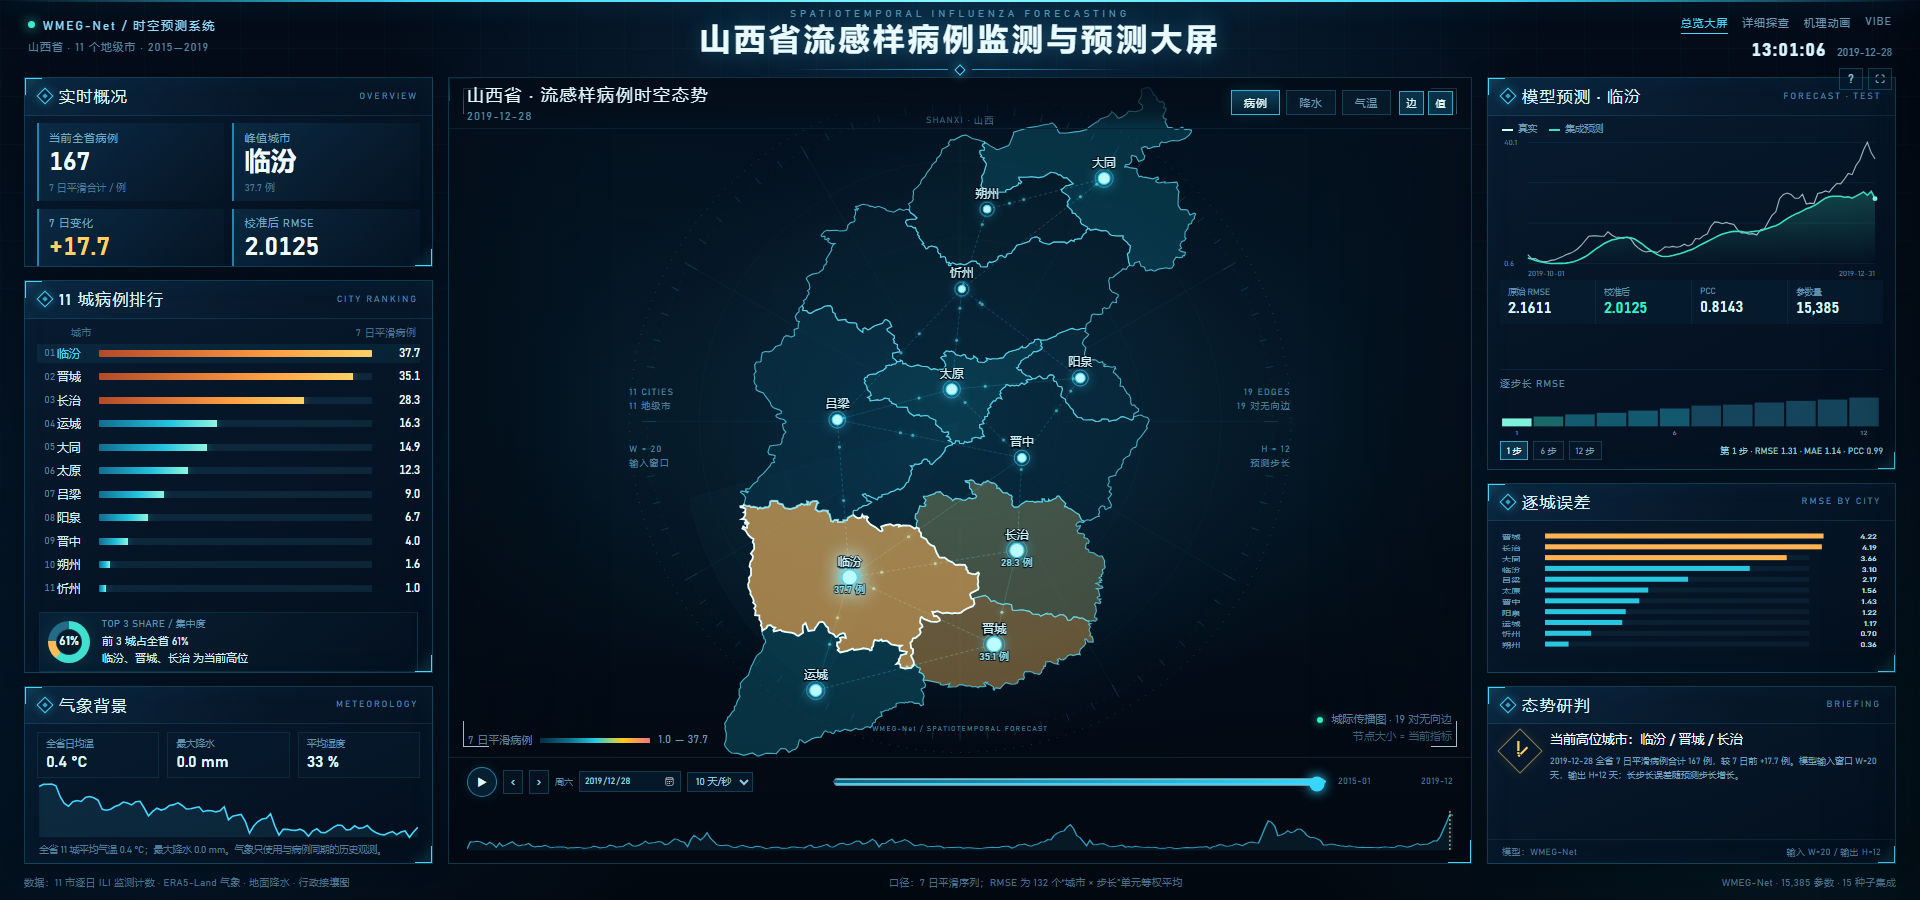
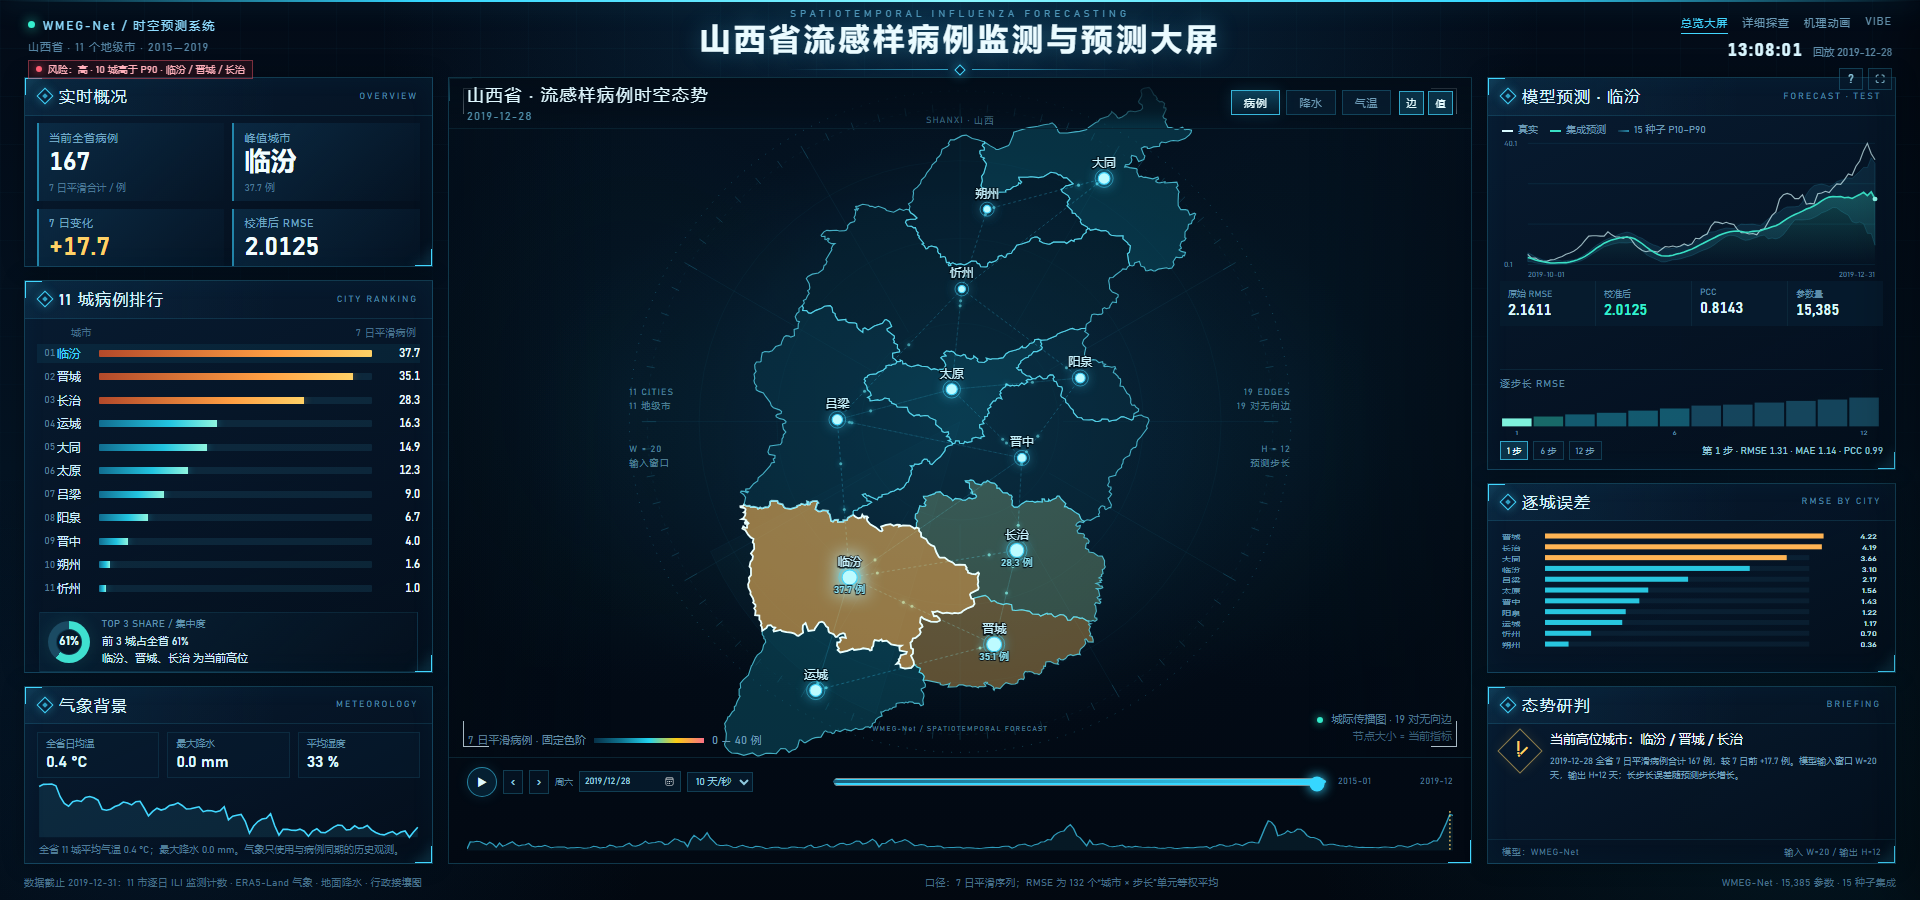
feat: fixed color scale, ensemble interval, risk alert and time semantics

diff --git a/assets/screen.js b/assets/screen.js
@@ -1,6 +1,6 @@
 'use strict';
 /* CENI-style big screen · data-driven */
-var DATA=null, GEO=null, FIT=null;
+var DATA=null, GEO=null, FIT=null, MECH=null, CITY_Q90={};
 var CITY={}, SERIES={}, PROV={};
 var state={idx:0,mode:'cases',city:null,playing:false,speed:10,timer:null,horizon:1,edges:true,labels:true};
 var MAP=null;
@@ -19,6 +19,15 @@ function colorScale(v,min,max){
   var p=t*(stops.length-1),i=Math.min(stops.length-2,Math.floor(p)),u=p-i;
   var a=stops[i],b=stops[i+1];
   return 'rgb('+Math.round(a[0]+(b[0]-a[0])*u)+','+Math.round(a[1]+(b[1]-a[1])*u)+','+Math.round(a[2]+(b[2]-a[2])*u)+')';
+}
+function colorDomain(){
+  if(state.mode==='cases')return [0,40];
+  if(state.mode==='precip')return [0,20];
+  return [-10,30];
+}
+function quantile(arr,q){
+  var a=arr.filter(function(v){return v!==null&&v!==undefined&&!isNaN(v)}).slice().sort(function(x,y){return x-y});
+  if(!a.length)return 0;var pos=(a.length-1)*q,lo=Math.floor(pos),hi=Math.ceil(pos);return a[lo]+(a[hi]-a[lo])*(pos-lo);
 }
 function cityValue(name,i){
   if(state.mode==='precip') return SERIES[name].precip[i];
@@ -170,7 +179,7 @@ function selectCity(name,open){
 function updateMap(){
   var i=state.idx;
   var vals=DATA.meta.cities.map(function(c){return cityValue(c.name,i)});
-  var min=Math.min.apply(null,vals),max=Math.max.apply(null,vals);
+  var dom=colorDomain();var min=dom[0],max=dom[1];
   var topNames=DATA.meta.cities.map(function(c){return {name:c.name,v:cityValue(c.name,i)}}).sort(function(a,b){return b.v-a.v}).slice(0,3).map(function(d){return d.name});
   $$('#map .city-zone').forEach(function(p){
     var name=p.getAttribute('data-name');var v=cityValue(name,i);
@@ -190,7 +199,8 @@ function updateMap(){
   });
   $('#map-date').textContent=DATA.meta.dates[i];
   var lg=$('#map-legend');
-  lg.innerHTML='<span>'+modeName()+'</span><i class="bar"></i><span>'+fmt(min,1)+' — '+fmt(max,1)+'</span>';
+  var unit=state.mode==='cases'?' 例':(state.mode==='precip'?' mm':' °C');
+  lg.innerHTML='<span>'+modeName()+' · 固定色阶</span><i class="bar"></i><span>'+fmt(min,0)+' — '+fmt(max,0)+unit+'</span>';
 }
 function drawRanking(){
   var i=state.idx;
@@ -207,8 +217,18 @@ function drawRanking(){
   var total=arr.reduce(function(s,d){return s+d.v},0)||1;
   var top3=arr.slice(0,3).reduce(function(s,d){return s+d.v},0);
   var pct=Math.round(top3/total*100);
-  $('#rank-summary').innerHTML='<div class="rank-donut" style="background:conic-gradient(#3fe0d0 0 '+pct+'%,#ffbd5a '+pct+'% '+(pct+15)+'%,#256b88 '+(pct+15)+'% 100%)"><b>'+pct+'%</b></div>'+
+  $('#rank-summary').innerHTML='<div class="rank-donut" style="background:conic-gradient(#3fe0d0 0 '+pct+'%,#1b4b63 '+pct+'% 100%)"><b>'+pct+'%</b></div>'+
     '<div class="rank-sum-txt"><span>TOP 3 SHARE / 集中度</span><b>前 3 城占全省 '+pct+'%<br>'+arr[0].short+'、'+arr[1].short+'、'+arr[2].short+' 为当前高位</b></div>';
+}
+function updateAlert(){
+  if(!DATA)return;
+  var i=state.idx;
+  var risks=DATA.meta.cities.filter(function(c){var v=SERIES[c.name].casesSmooth[i]||0;return v>=CITY_Q90[c.name]}).map(function(c){return {short:c.short,v:SERIES[c.name].casesSmooth[i]||0}}).sort(function(a,b){return b.v-a.v});
+  var chip=$('#alert-chip');if(!chip)return;
+  var level=risks.length>=4?'high':(risks.length>=1?'watch':'low');
+  chip.className='alert-chip '+level;
+  var names=risks.slice(0,3).map(function(x){return x.short}).join(' / ');
+  chip.innerHTML='<i></i><span>风险：'+(level==='high'?'高':level==='watch'?'关注':'低')+(risks.length?' · '+risks.length+' 城高于 P90 · '+names:' · 无城市超 P90')+'</span>';
 }
 function updateMetrics(){
   var i=state.idx;
@@ -224,7 +244,7 @@ function updateMetrics(){
   $('#map-date').textContent=DATA.meta.dates[i];
   $('#tl-date').textContent=DATA.meta.dates[i];
   $('#tl-week').textContent=weekday(DATA.meta.dates[i]);
-  $('#date').textContent=DATA.meta.dates[i];
+  $('#date').textContent='回放 '+DATA.meta.dates[i];
   $('#slider').value=state.idx;
   $('#date-pick').value=DATA.meta.dates[i];
   // weather
@@ -268,11 +288,18 @@ function drawForecast(){
   var name=state.city||'太原市';var s=FIT.series[name]||FIT.province;
   var t=s.true||[],p=s.pred||[];
   var start=Math.max(0,t.length-92);var tt=t.slice(start),pp=p.slice(start);
+  var ci=-1;for(var q=0;q<DATA.meta.cities.length;q++)if(DATA.meta.cities[q].name===name)ci=q;
+  var b10=[],b90=[];
+  if(MECH&&MECH.fan&&ci>=0){for(var d=start;d<t.length;d++){b10.push(MECH.fan.p10[d][ci]);b90.push(MECH.fan.p90[d][ci])}}
+  var all=tt.concat(pp).concat(b10).concat(b90);
   var w=386,h=158,padL=28,padR=8,padT=8,padB=18;
-  var min=Math.min.apply(null,tt.concat(pp)),max=Math.max.apply(null,tt.concat(pp));var span=max-min||1;
+  var min=Math.min.apply(null,all),max=Math.max.apply(null,all);var span=max-min||1;
   function x(i){return padL+i/(tt.length-1)*(w-padL-padR)}
   function y(v){return padT+(max-v)/span*(h-padT-padB)}
   function line(a){return a.map(function(v,i){return (i?'L':'M')+x(i).toFixed(1)+' '+y(v).toFixed(1)}).join('')}
+  function revLine(a){return a.map(function(v,i){return 'L'+x(i).toFixed(1)+' '+y(v).toFixed(1)}).reverse().join('')}
+  var band='';
+  if(b10.length===tt.length){var bd=line(b10)+revLine(b90)+'Z';band='<path d="'+bd+'" fill="rgba(66,215,255,.10)" stroke="rgba(66,215,255,.22)" stroke-width=".7"/>'}
   var grid='';
   for(var g=0;g<4;g++){var yy=padT+g/(3)*(h-padT-padB);grid+='<line x1="'+padL+'" x2="'+(w-padR)+'" y1="'+yy+'" y2="'+yy+'" stroke="rgba(66,215,255,.09)"/>'}
   var labels='<text x="4" y="'+(y(max)+3)+'" fill="#507e99" font-size="8">'+fmt(max,1)+'</text><text x="4" y="'+(y(min)+3)+'" fill="#507e99" font-size="8">'+fmt(min,1)+'</text>';
@@ -280,7 +307,7 @@ function drawForecast(){
   labels+='<text x="'+padL+'" y="'+(h-4)+'" fill="#507e99" font-size="8">'+FIT.testDates[start]+'</text>';
   $('#forecast-chart').innerHTML='<svg viewBox="0 0 '+w+' '+h+'" preserveAspectRatio="none">'+
     '<defs><linearGradient id="fg" x1="0" x2="0" y1="0" y2="1"><stop offset="0" stop-color="#39e0c5" stop-opacity=".24"/><stop offset="1" stop-color="#39e0c5" stop-opacity="0"/></linearGradient></defs>'+
-    grid+labels+
+    grid+labels+band+
     '<path d="'+line(pp)+'L'+x(pp.length-1)+' '+(h-padB)+'L'+padL+' '+(h-padB)+'Z" fill="url(#fg)"/>'+
     '<path d="'+line(tt)+'" fill="none" stroke="#d9fbff" stroke-width="1.2" stroke-opacity=".7"/>'+
     '<path d="'+line(pp)+'" fill="none" stroke="#39e0c5" stroke-width="1.7"/>'+
@@ -335,7 +362,7 @@ function updateURL(){
   history.replaceState(null,'',location.pathname+'?'+p.toString());
 }
 function updateAll(){
-  updateMap();drawRanking();updateMetrics();drawWeatherSpark();drawForecast();drawError();drawHorizon();
+  updateMap();drawRanking();updateMetrics();updateAlert();drawWeatherSpark();drawForecast();drawError();drawHorizon();
   if($('#city-drawer').classList.contains('open'))drawDrawer();
   updateURL();
 }
@@ -432,10 +459,11 @@ function boot(){
   Promise.all([
     fetch('data/app_data.json').then(function(r){return r.json()}),
     fetch('data/geo.json').then(function(r){return r.json()}),
-    fetch('data/fit_data.json').then(function(r){return r.json()})
+    fetch('data/fit_data.json').then(function(r){return r.json()}),
+    fetch('data/mech_data.json').then(function(r){return r.json()})
   ]).then(function(res){
-    DATA=res[0];GEO=res[1];FIT=res[2];PROV=DATA.meta.province;
-    DATA.meta.cities.forEach(function(c){CITY[c.name]=c;SERIES[c.name]=DATA.series[c.name]});
+    DATA=res[0];GEO=res[1];FIT=res[2];MECH=res[3];PROV=DATA.meta.province;
+    DATA.meta.cities.forEach(function(c){CITY[c.name]=c;SERIES[c.name]=DATA.series[c.name];CITY_Q90[c.name]=quantile(SERIES[c.name].casesSmooth,0.9)});
     var q=new URLSearchParams(location.search);
     var max=-Infinity,idx=0;PROV.casesSmoothSum.forEach(function(v,i){if(v>max){max=v;idx=i}});
     state.idx=idx;

diff --git a/assets/screen.css b/assets/screen.css
@@ -357,3 +357,22 @@ body{display:block;position:relative}
 .step-btn:hover{color:#fff;border-color:var(--cyan)}
 .timeline{grid-template-columns:clamp(290px,18.6vw,350px) minmax(0,1fr) clamp(100px,6vw,120px)}
 #date-pick{width:102px;min-width:102px;flex-basis:102px}
+/* final completeness: alert, uncertainty legend, readable minimums */
+.alert-chip{display:inline-flex;align-items:center;gap:6px;margin-top:6px;padding:2px 7px;border:1px solid rgba(255,209,102,.28);background:rgba(70,48,12,.28);color:#d8bd84;font-size:9.5px;letter-spacing:.04em;max-width:100%;white-space:nowrap;overflow:hidden;text-overflow:ellipsis}
+.alert-chip i{width:6px;height:6px;border-radius:50%;background:#ffd166;box-shadow:0 0 8px rgba(255,209,102,.8);flex:0 0 auto}
+.alert-chip.high{border-color:rgba(255,93,115,.42);background:rgba(80,20,30,.34);color:#ffb0bb}.alert-chip.high i{background:#ff5d73;box-shadow:0 0 8px rgba(255,93,115,.8)}
+.alert-chip.low{border-color:rgba(53,224,200,.3);background:rgba(8,56,56,.25);color:#87e8d8}.alert-chip.low i{background:#35e0c8;box-shadow:0 0 8px rgba(53,224,200,.7)}
+.chart-legend .band:before{background:linear-gradient(90deg,rgba(66,215,255,.15),rgba(66,215,255,.6))}
+.panel-h em{font-size:clamp(9px,.49vw,9.5px)}
+.forecast-metrics span{font-size:clamp(9px,.47vw,9.5px)}
+.rank-head{font-size:clamp(9px,.5vw,9.5px)}
+.brief-foot{font-size:clamp(9px,.48vw,9.5px)}
+.screen-foot{font-size:clamp(9px,.52vw,10px)}
+.horizon-select{font-size:clamp(9.5px,.58vw,10px)}
+.map-legend{font-size:clamp(10px,.55vw,10.5px)}
+.map-status{font-size:clamp(10px,.55vw,10.5px)}
+.panel-note{font-size:clamp(9.5px,.52vw,10px)}
+.weather-k span{font-size:clamp(9.5px,.5vw,10px)}
+.map-title b{font-size:clamp(10px,.58vw,11px)}
+.tl-right{font-size:clamp(9px,.48vw,9.5px)}
+.chart-legend{font-size:clamp(10px,.52vw,10px)}

diff --git a/index.html b/index.html
@@ -13,6 +13,7 @@
     <div class="head-left">
       <div class="sys-tag"><i></i> WMEG-Net / 时空预测系统</div>
       <div class="sys-sub">山西省 · 11 个地级市 · 2015—2019</div>
+      <div id="alert-chip" class="alert-chip"><i></i><span>风险计算中</span></div>
     </div>
     <div class="head-title">
       <div class="title-kicker">SPATIOTEMPORAL INFLUENZA FORECASTING</div>
@@ -113,7 +114,7 @@
     <aside class="col col-right">
       <section class="panel p-forecast">
         <div class="panel-h"><span class="ph-ico"></span><h2>模型预测</h2><em>FORECAST · TEST</em></div>
-        <div class="chart-legend"><span class="lg true">真实</span><span class="lg pred">集成预测</span></div>
+        <div class="chart-legend"><span class="lg true">真实</span><span class="lg pred">集成预测</span><span class="lg band">15 种子 P10–P90</span></div>
         <div id="forecast-chart" class="forecast-chart"></div>
         <div class="forecast-metrics">
           <div><span>原始 RMSE</span><b>2.1611</b></div>
@@ -142,7 +143,7 @@
   </main>
 
   <footer class="screen-foot">
-    <span>数据：11 市逐日 ILI 监测计数 · ERA5-Land 气象 · 地面降水 · 行政接壤图</span>
+    <span>数据截止 2019-12-31：11 市逐日 ILI 监测计数 · ERA5-Land 气象 · 地面降水 · 行政接壤图</span>
     <span>口径：7 日平滑序列；RMSE 为 132 个“城市 × 步长”单元等权平均</span>
     <span>WMEG-Net · 15,385 参数 · 15 种子集成</span>
   </footer>

diff --git a/README.md b/README.md
@@ -9,7 +9,7 @@ WMEG-Net 结题项目的交互式可视化：山西省 11 个地级市、2015–
 首页 `index.html` 改为固定 16:9 的 CENI 风格省级预测大屏：深蓝 HUD、左侧实时概况/11 城排行/气象背景、中央山西地图与城际传播图、右侧模型预测/逐城误差/态势研判、底部时间轴与播放。原 v2「故事 + 过程」首页保留为 `explore.html`，功能与 URL 参数不变。
 
 - 大屏入口：`index.html`（默认打开峰值日 2019-12-28）
-- 交互：日期播放/前后一天、日期选择、病例/降水/气温切换、城市详情抽屉、逐步长 RMSE 选择、URL 深链、全屏、帮助说明、CSV 导出、键盘快捷键
+- 交互：日期播放/前后一天、日期选择、病例/降水/气温切换、城市详情抽屉、15 种子 P10–P90 区间、逐步长 RMSE 选择、风险提示、URL 深链、全屏、帮助说明、CSV 导出、键盘快捷键
 - 详细探查：`explore.html`（原 v2 首页，支持 `?date=`、`&mode=`、`&city=` 等参数）
 - 预览图：`preview/10_ceni大屏.png`
 
